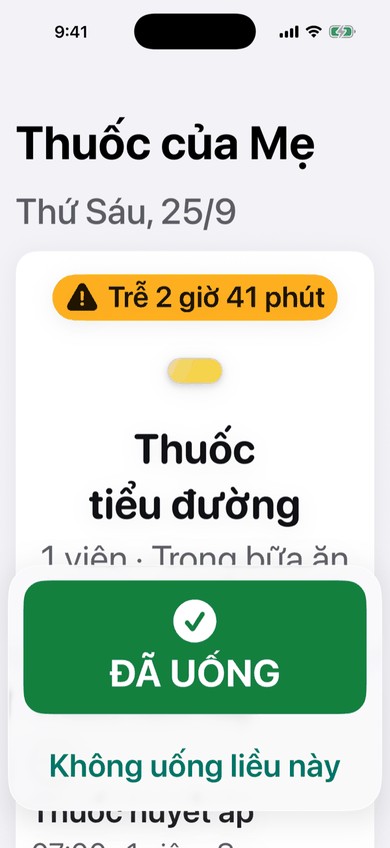
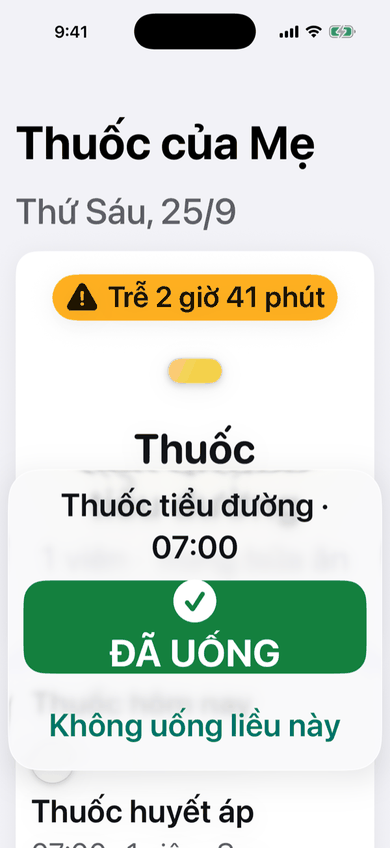
Meds README: the AX-L screenshot shows the tray naming its medicine
Re-rendered on 1c2f012 by the "iOS previews" workflow.

Claude-Session: https://claude.ai/code/session_017SqZFe7MJiZeRp26ra9wFc

diff --git a/ios/README.md b/ios/README.md
@@ -393,7 +393,7 @@ Chụp từ simulator iPhone 17 Pro (iOS 26.5, Xcode 26.6) bằng workflow **iOS
 
 | Nhắc thuốc: phía cha mẹ | Phía người con | Cha mẹ, chữ cực lớn (AX-L) |
 | --- | --- | --- |
-| <img src="docs/screenshots/meds-today.light.png" width="200" alt="Nhắc thuốc, phía cha mẹ: liều trễ 2 giờ 41 phút, hình viên thuốc, tên thuốc tiểu đường, nút ĐÃ UỐNG rất to"> | <img src="docs/screenshots/meds-caregiver.light.png" width="200" alt="Phía người con: đã uống 1/3 liều đến giờ, thẻ cảnh báo liều trễ với nút Gọi Mẹ và Nhắc lại, dòng thời gian hôm nay"> | <img src="docs/screenshots/meds-today.large-text.png" width="200" alt="Phía cha mẹ ở cỡ chữ cực lớn: tên thuốc vẫn thấy, nút ĐÃ UỐNG ghim ở đáy màn hình"> |
+| <img src="docs/screenshots/meds-today.light.png" width="200" alt="Nhắc thuốc, phía cha mẹ: liều trễ 2 giờ 41 phút, hình viên thuốc, tên thuốc tiểu đường, nút ĐÃ UỐNG rất to"> | <img src="docs/screenshots/meds-caregiver.light.png" width="200" alt="Phía người con: đã uống 1/3 liều đến giờ, thẻ cảnh báo liều trễ với nút Gọi Mẹ và Nhắc lại, dòng thời gian hôm nay"> | <img src="docs/screenshots/meds-today.large-text.png" width="200" alt="Phía cha mẹ ở cỡ chữ cực lớn: nút ĐÃ UỐNG ghim ở đáy màn hình, dưới tên thuốc và giờ uống mà nó trả lời"> |
 
 Toàn bộ 38 ảnh (thêm chế độ tối, chữ lớn, màn màu & thành phần) nằm ở nhánh `ios-previews` sau mỗi lần chạy workflow.
 
